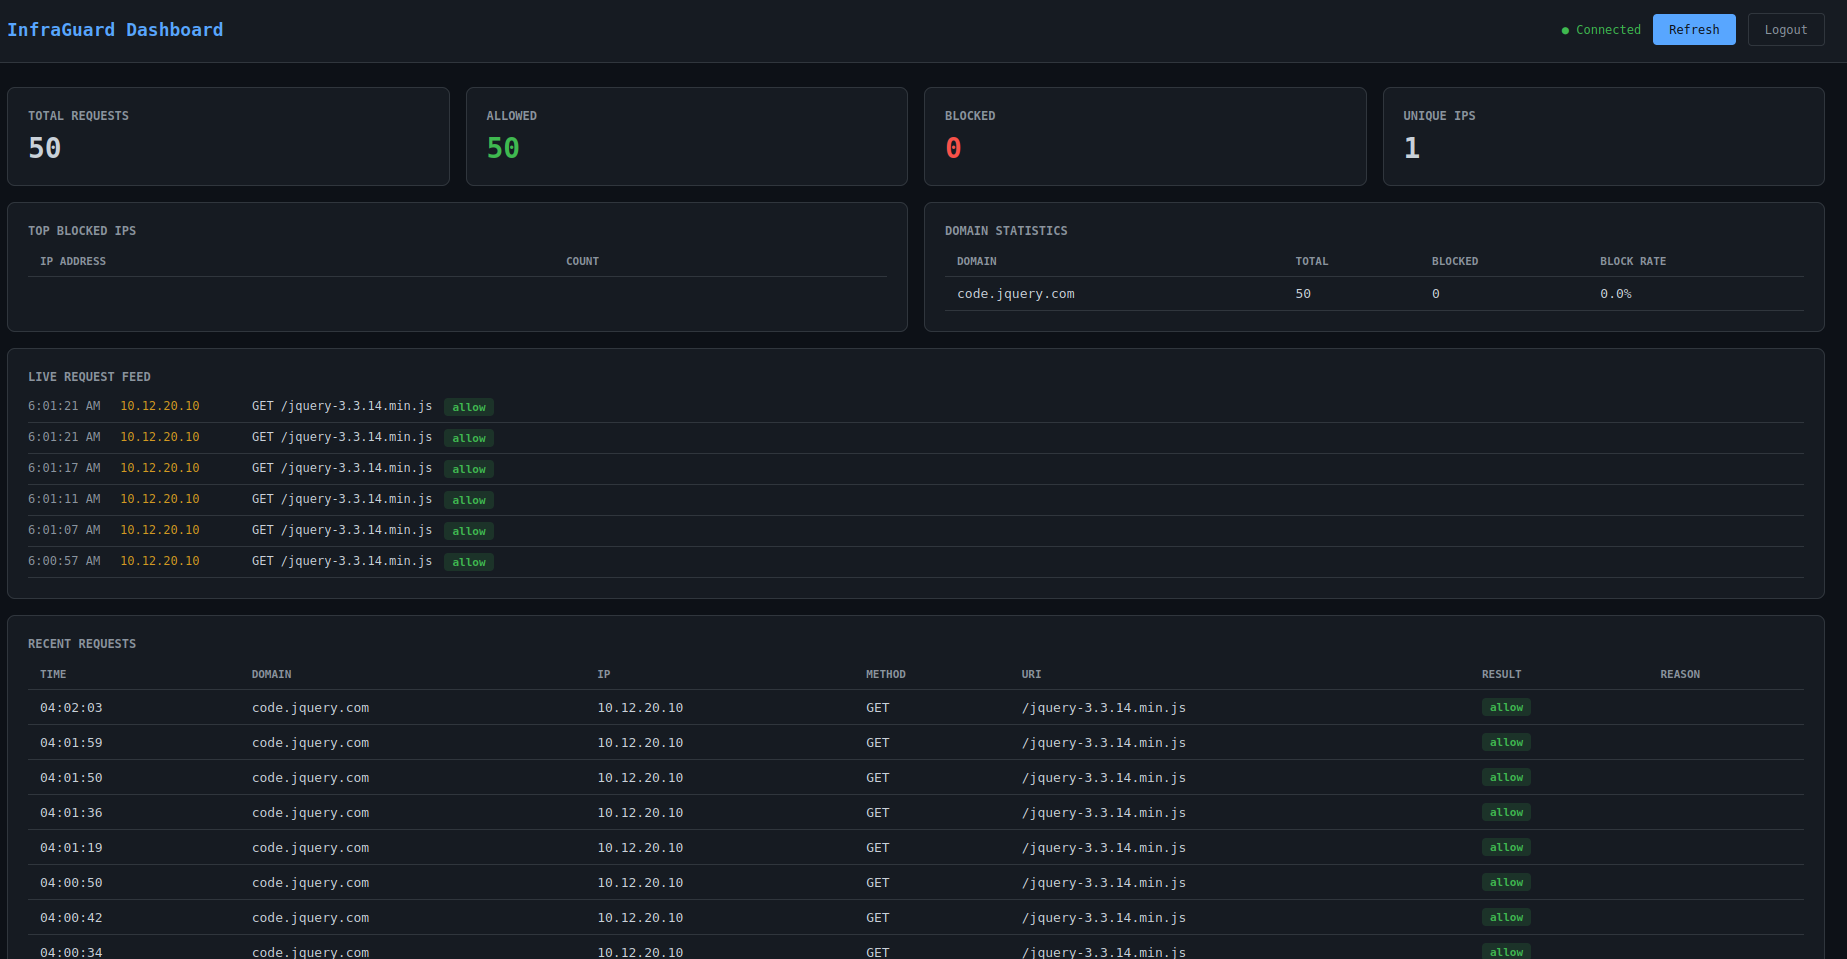
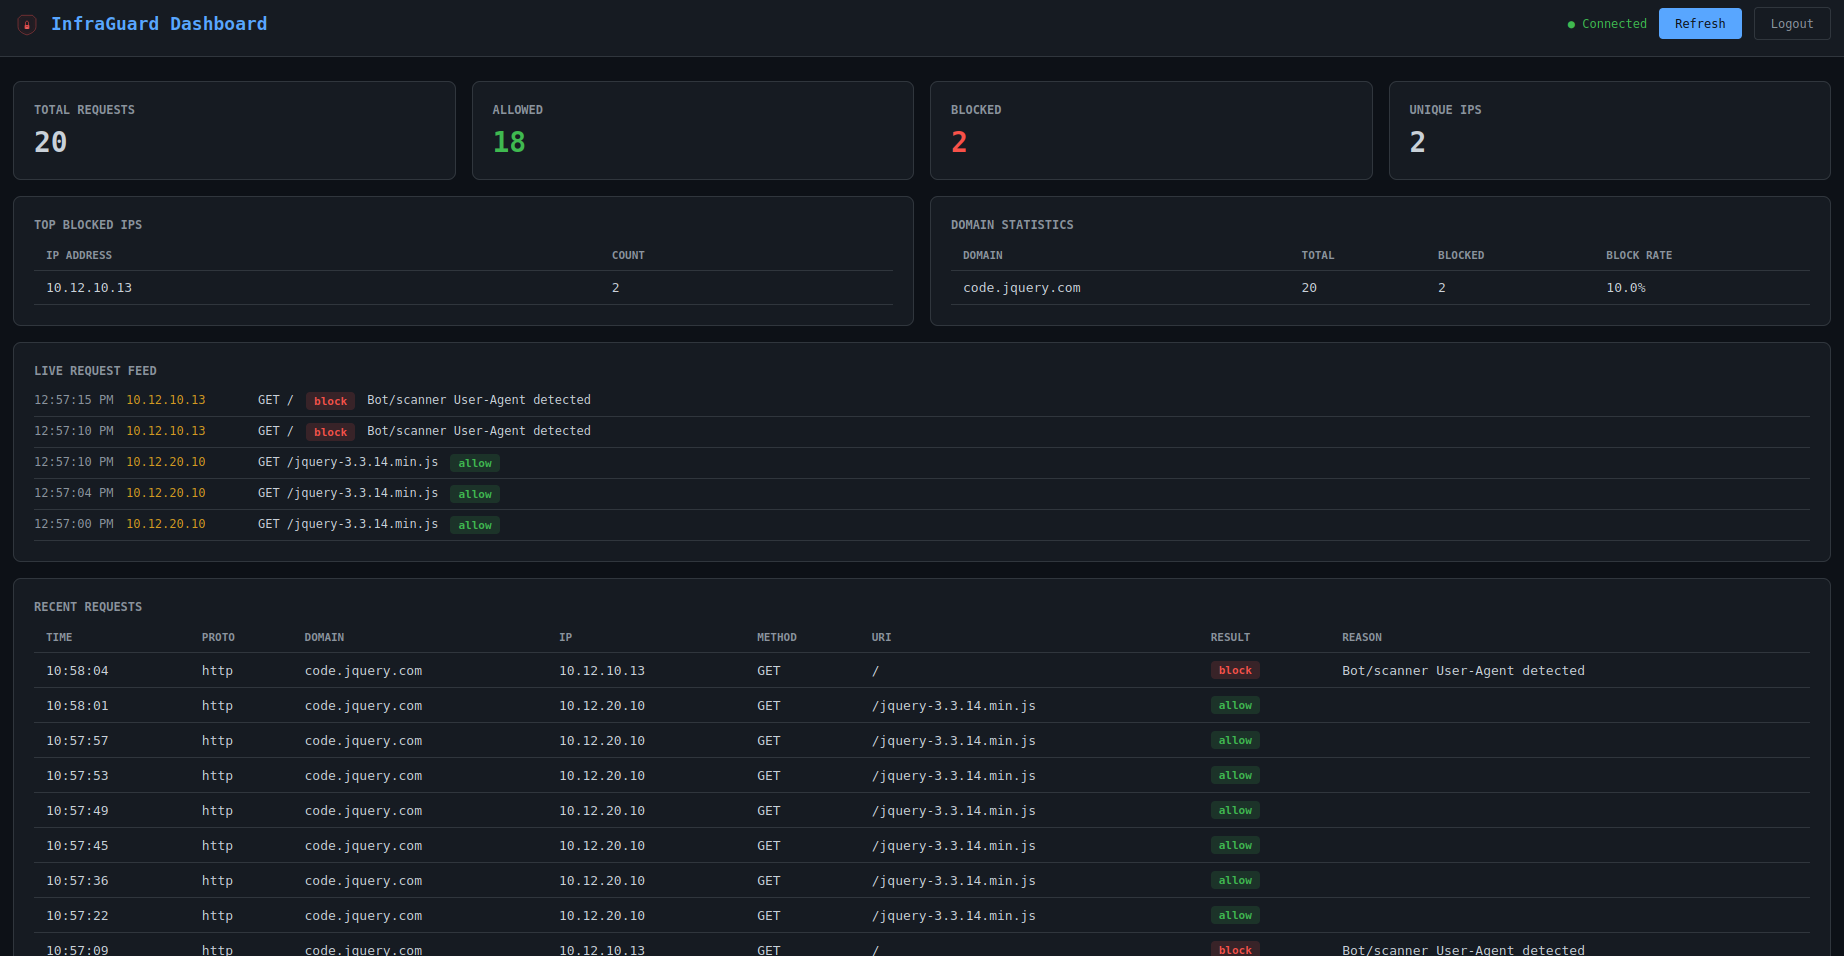
Updated JQuery Example to include a UA

diff --git a/README.md b/README.md
@@ -6,6 +6,7 @@ InfraGuard sits between the internet and your C2 teamserver, validating every in
 
 ![Mythic Callbacks Xenon](/images/xenon_callback.png)
 ![InfraGuard Dashboard](/images/infraguard_dashboard.png)
+![alt text](image.png)
 
 ## Architecture
 
